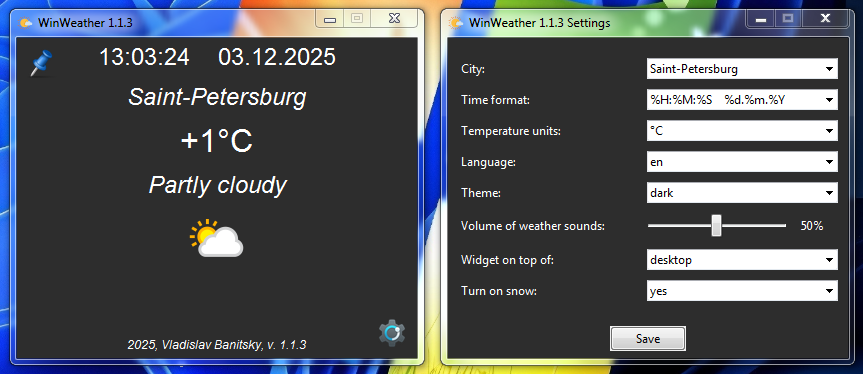
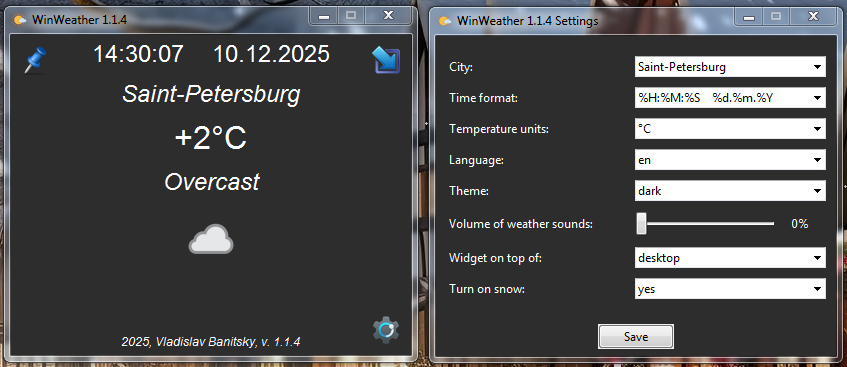
Improved tray mode

diff --git a/WinWeather.py b/WinWeather.py
@@ -3,10 +3,11 @@
 # Поддерживаются два режима работы: оконное приложение (главное окно и окно настроек) и виджет.
 # GitHub: https://github.com/VladislavBanitsky/WinWeather
 # Разработчик: Владислав Баницкий
-# Версия: 1.1.3
-# Обновлено: 03.12.2025  
+# Версия: 1.1.4
+# Обновлено: 10.12.2025  
 # ==============================================================================================
 
+import threading
 import tkinter as tk
 from tkinter import ttk
 from datetime import datetime
@@ -31,7 +32,7 @@ HEIGHT = 320
 W_WIDTH  = 250
 W_HEIGHT = 100
 
-VERSION = "1.1.4 beta"
+VERSION = "1.1.4"
 ABOUT = f"2025, Vladislav Banitsky, v. {VERSION}"
 
 # Настройки по умолчанию
@@ -106,6 +107,7 @@ def create_systray_icon():
     except Exception as e:
         print(f"Ошибка создания иконки в трее: {e}")
 
+
 def minimize_to_tray():
     """Сворачивание приложения в трей"""
     global APP_IN_TRAY
@@ -129,8 +131,21 @@ def minimize_to_tray():
     except Exception as e:
         print(f"Ошибка при сворачивании в трей: {e}")
 
+
 def restore_from_tray(icon=None, item=None):
     """Восстановление приложения из трея"""
+    global APP_IN_TRAY
+    
+    try:
+        # Используем after для безопасного вызова из главного потока Tkinter
+        root.after(0, _safe_restore)
+        
+    except Exception as e:
+        print(f"Ошибка при восстановлении из трея: {e}")
+
+
+def _safe_restore():
+    """Безопасное восстановление окна из главного потока Tkinter"""
     global APP_IN_TRAY
     
     try:
@@ -142,14 +157,11 @@ def restore_from_tray(icon=None, item=None):
         # Обновляем состояние
         APP_IN_TRAY = False
         
-        # Убираем снег, если приложение развернуто (чтобы не мешал)
-        if snow_overlay is not None:
-            snow_overlay.hide()
-        
         print("Приложение восстановлено из трея")
         
     except Exception as e:
         print(f"Ошибка при восстановлении из трея: {e}")
+
 
 def quit_app(icon=None, item=None):
     """Полный выход из приложения"""
@@ -168,19 +180,24 @@ def quit_app(icon=None, item=None):
     if systray_icon is not None:
         systray_icon.stop()
     
-    # Закрываем приложение
-    root.quit()
-    root.destroy()
+    # Закрываем приложение через метод after (в главном потоке Tkinter)
+    root.after(0, _safe_quit)
 
-# Добавьте обработчик закрытия окна (перед root.mainloop())
+
+def _safe_quit():
+    """Безопасное закрытие приложения из главного потока Tkinter"""
+    try:
+        root.quit()
+        root.destroy()
+        print("Выход из приложения")
+    except:
+        pass
+
+
 def on_closing():
     """Обработка закрытия окна"""
-    if SNOW_IS_ON:
-        # Если включен снег, сворачиваем в трей вместо закрытия
-        minimize_to_tray()
-    else:
-        # Иначе закрываем приложение
-        quit_app()
+    # Используем after для безопасного вызова из главного потока
+    root.after(0, quit_app)
 
 
 # Функция для автоматического переключения темы в зависимости от времени суток
@@ -719,16 +736,7 @@ def save_settings_by_button(city_var, temp_unit_var, time_format_var, language_v
         if snow_overlay is None:
             # Создаем снег, если его еще нет
             snow_overlay = SnowDesktopOverlay(root)
-            if APP_IN_TRAY:  # Если приложение в трее, показываем снег
-                snow_overlay.show()
-            else:  # Если приложение развернуто, скрываем снег
-                snow_overlay.hide()
-        else:
-            # Показываем или скрываем снег в зависимости от состояния приложения
-            if APP_IN_TRAY:
-                snow_overlay.show()
-            else:
-                snow_overlay.hide()
+            snow_overlay.show()
     else:
         if snow_overlay is not None:
             # Скрываем снег, если он есть
@@ -891,7 +899,7 @@ pin_button.bind("<Leave>", on_leave_pin)
 # Создаём кнопку сворачивания в трей
 tray_frame = tk.Frame(root, bg=current_theme["bg"], bd=0, highlightthickness=0)
 tray_frame.place(x=360, y=10, width=30, height=30)
-tray_img = Image.open(resource_path('./resources/images/WinWeather.ico'))
+tray_img = Image.open(resource_path('./resources/images/minimize-tray-button.png'))
 tray_img = tray_img.resize((30, 30), Image.LANCZOS)
 tray_photo = ImageTk.PhotoImage(tray_img)
 
